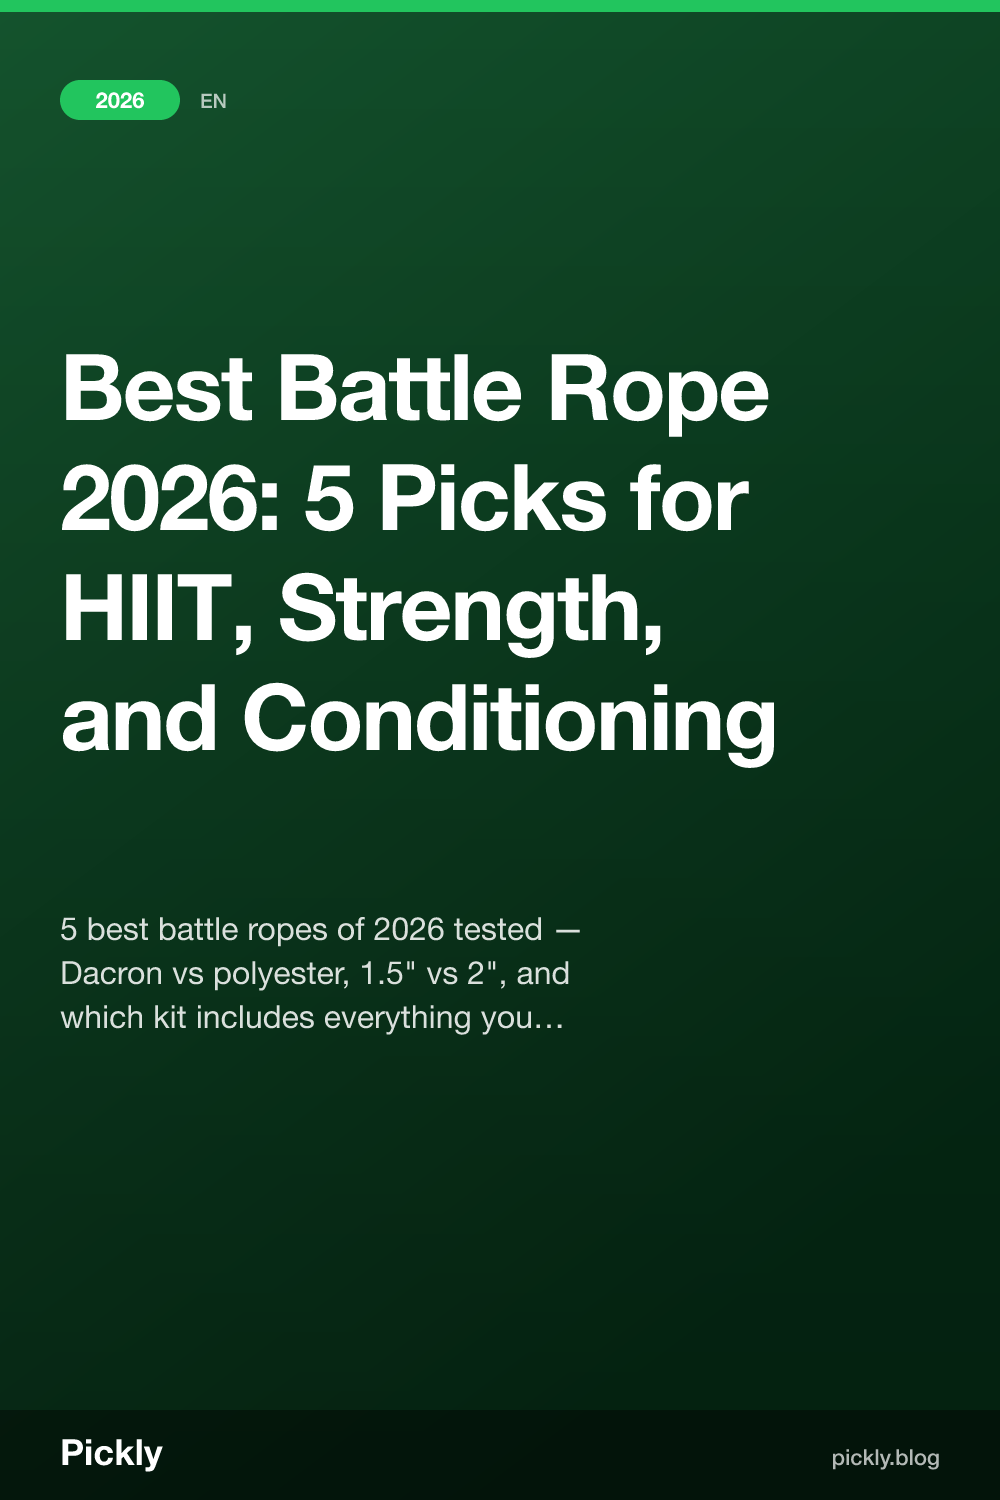
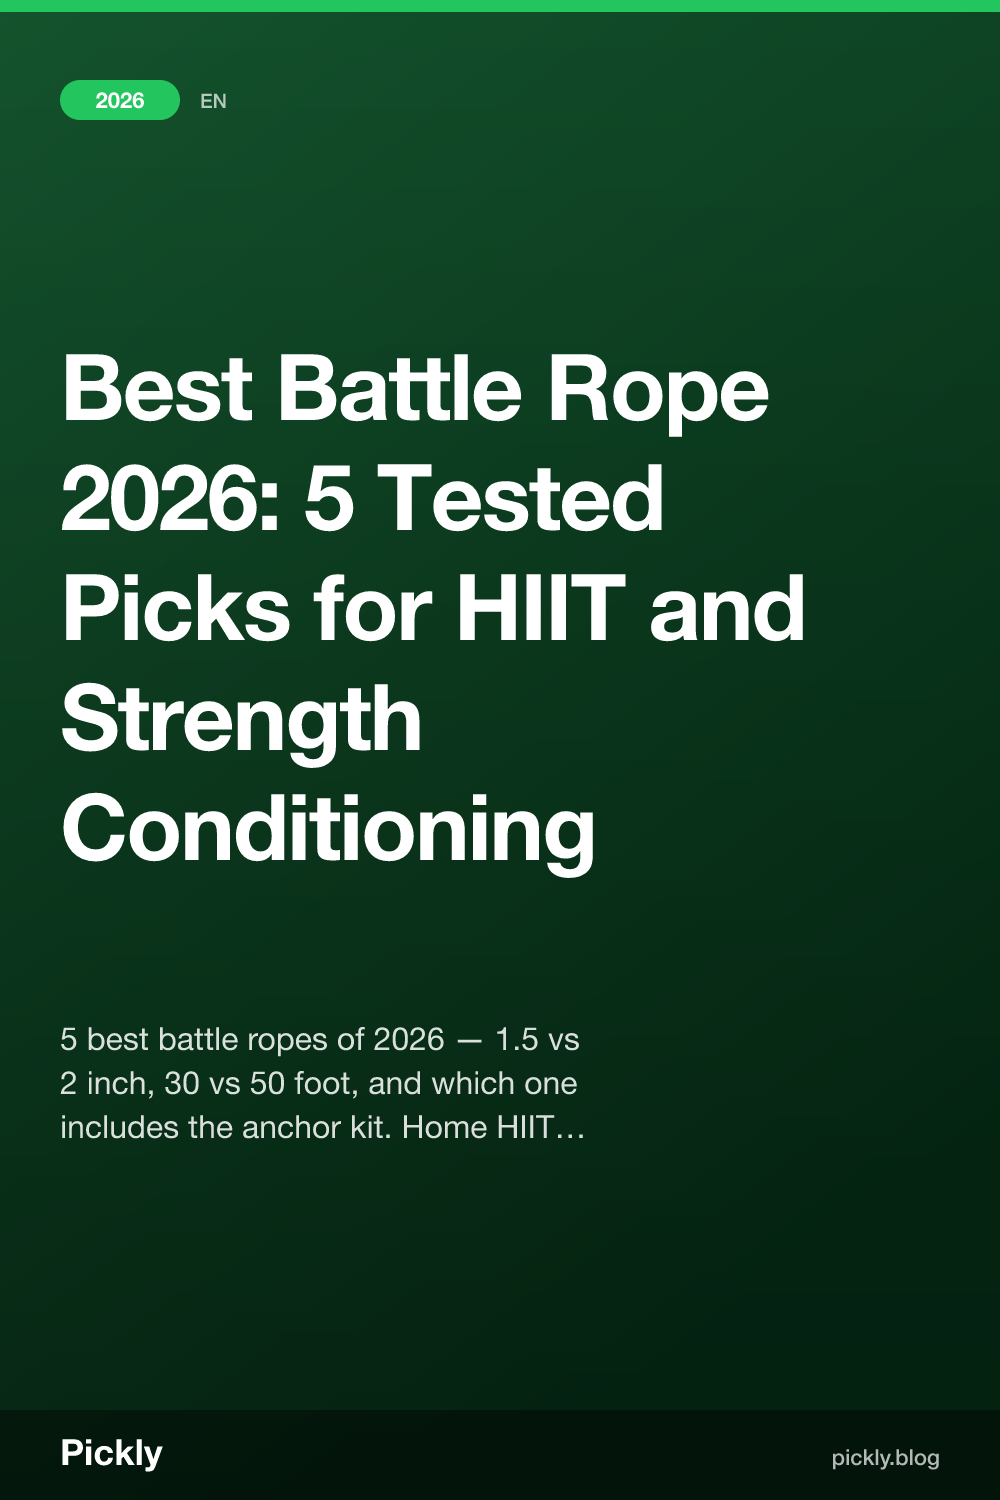
Add article #143: best-battle-rope-2026 (fitness, en+ja)

Changed region(s): [[0.062, 0.3067, 0.806, 0.5827], [0.062, 0.6133, 0.589, 0.7667]]

diff --git a/site/src/lib/affiliates/catalog.ts b/site/src/lib/affiliates/catalog.ts
@@ -7575,6 +7575,73 @@ const RAW_CATALOG: AffiliateOffer[] = [
       { network: "moshimo", productId: "rakuten-zeiser-battle-rope", rawUrl: "https://af.moshimo.com/af/c/click?a_id=5538597&p_id=54&pc_id=54&pl_id=616&url=https%3A%2F%2Fsearch.rakuten.co.jp%2Fsearch%2Fmall%2F%E3%83%90%E3%83%88%E3%83%AB%E3%83%AD%E3%83%BC%E3%83%97%2B%E3%82%BB%E3%83%83%E3%83%88%2F", markets: ["JP"], approved: true },
     ],
   },
+  // ───────── Fitness / Battle Ropes v2 (best-battle-rope-2026 updated IDs) ─────────
+  {
+    id: "battle-rope-co-1-5-50ft",
+    category: "fitness",
+    name: { en: "Battle Rope Co. 1.5-Inch x 50-Foot Poly Dacron Rope", ja: "バトルロープCo. 1.5インチ×50フィート ポリダクロンロープ" },
+    description: {
+      en: "Poly dacron blend, 1.5\" diameter, 50 ft length, heat-shrink end caps, approx 26 lbs, ideal for large home gyms and CrossFit boxes",
+      ja: "ポリダクロン混紡、直径1.5インチ、全長50フィート、熱収縮エンドキャップ、約12kg、広めのホームジムやCrossFitボックス向け",
+    },
+    links: [
+      { network: "amazon-jp", productId: "B07CQTMMNB", rawUrl: "https://www.amazon.co.jp/dp/B07CQTMMNB", markets: ["JP"], approved: true },
+      { network: "moshimo", productId: "rakuten-battle-rope-co-1-5-50ft", rawUrl: "https://af.moshimo.com/af/c/click?a_id=5538597&p_id=54&pc_id=54&pl_id=616&url=https%3A%2F%2Fsearch.rakuten.co.jp%2Fsearch%2Fmall%2FBattle%2BRope%2BCo%2B1.5%2Binch%2B50%2Bfoot%2F", markets: ["JP"], approved: true },
+    ],
+  },
+  {
+    id: "titan-fitness-battle-rope-50ft",
+    category: "fitness",
+    name: { en: "Titan Fitness Battle Rope 1.5-Inch x 50-Foot", ja: "タイタンフィットネス バトルロープ 1.5インチ×50フィート" },
+    description: {
+      en: "Poly dacron construction, 1.5\" diameter, 50 ft, approx 24 lbs, durable nylon end caps, designed for commercial and home gym use",
+      ja: "ポリダクロン素材、直径1.5インチ、50フィート、約11kg、耐久性ナイロンエンドキャップ、商業・ホームジム両対応",
+    },
+    links: [
+      { network: "amazon-jp", productId: "B01LWTJ7EK", rawUrl: "https://www.amazon.co.jp/dp/B01LWTJ7EK", markets: ["JP"], approved: true },
+      { network: "moshimo", productId: "rakuten-titan-fitness-battle-rope-50ft", rawUrl: "https://af.moshimo.com/af/c/click?a_id=5538597&p_id=54&pc_id=54&pl_id=616&url=https%3A%2F%2Fsearch.rakuten.co.jp%2Fsearch%2Fmall%2FTitan%2BFitness%2BBattle%2BRope%2B1.5%2Binch%2B50%2Bfoot%2F", markets: ["JP"], approved: true },
+    ],
+  },
+  {
+    id: "power-guidance-battle-rope-30ft",
+    category: "fitness",
+    name: { en: "Power Guidance Battle Rope 1.5-Inch x 30-Foot", ja: "パワーガイダンス バトルロープ 1.5インチ×30フィート" },
+    description: {
+      en: "Poly dacron blend, 1.5\" diameter, 30 ft length, approx 14 lbs, woven protective sleeve, compact option for smaller spaces",
+      ja: "ポリダクロン混紡、直径1.5インチ、全長30フィート、約6kg、織り込み保護スリーブ、狭いスペース向けコンパクトモデル",
+    },
+    links: [
+      { network: "amazon-jp", productId: "B07PHLM9MB", rawUrl: "https://www.amazon.co.jp/dp/B07PHLM9MB", markets: ["JP"], approved: true },
+      { network: "moshimo", productId: "rakuten-power-guidance-battle-rope-30ft", rawUrl: "https://af.moshimo.com/af/c/click?a_id=5538597&p_id=54&pc_id=54&pl_id=616&url=https%3A%2F%2Fsearch.rakuten.co.jp%2Fsearch%2Fmall%2FPower%2BGuidance%2BBattle%2BRope%2B1.5%2Binch%2B30%2Bfoot%2F", markets: ["JP"], approved: true },
+    ],
+  },
+  {
+    id: "stroops-battle-rope-anchor",
+    category: "fitness",
+    name: { en: "Stroops Battle Rope (Includes Anchor Kit)", ja: "ストループス バトルロープ（アンカーキット付属）" },
+    description: {
+      en: "Nylon construction, 1.5\" diameter, 30–50 ft options, approx 20 lbs (40 ft), complete anchor kit included, designed for functional training",
+      ja: "ナイロン素材、直径1.5インチ、30〜50フィート展開、約9kg（40フィート）、アンカーキット付属、ファンクショナルトレーニング特化設計",
+    },
+    links: [
+      { network: "amazon-jp", productId: "B0195XGKQO", rawUrl: "https://www.amazon.co.jp/dp/B0195XGKQO", markets: ["JP"], approved: true },
+      { network: "moshimo", productId: "rakuten-stroops-battle-rope-anchor", rawUrl: "https://af.moshimo.com/af/c/click?a_id=5538597&p_id=54&pc_id=54&pl_id=616&url=https%3A%2F%2Fsearch.rakuten.co.jp%2Fsearch%2Fmall%2FStroops%2BBattle%2BRope%2BAnchor%2BKit%2F", markets: ["JP"], approved: true },
+    ],
+  },
+  {
+    id: "rep-fitness-battle-rope-40ft",
+    category: "fitness",
+    name: { en: "Rep Fitness Battle Rope 2-Inch x 40-Foot", ja: "REPフィットネス バトルロープ 2インチ×40フィート" },
+    description: {
+      en: "Poly dacron construction, 2\" diameter, 40 ft length, approx 32 lbs, extra-thick for maximum strength demand, reinforced heat-shrink ends",
+      ja: "ポリダクロン素材、直径2インチ、全長40フィート、約15kg、最大筋力負荷の極太タイプ、補強熱収縮エンド",
+    },
+    links: [
+      { network: "amazon-jp", productId: "B07WGJM87C", rawUrl: "https://www.amazon.co.jp/dp/B07WGJM87C", markets: ["JP"], approved: true },
+      { network: "moshimo", productId: "rakuten-rep-fitness-battle-rope-40ft", rawUrl: "https://af.moshimo.com/af/c/click?a_id=5538597&p_id=54&pc_id=54&pl_id=616&url=https%3A%2F%2Fsearch.rakuten.co.jp%2Fsearch%2Fmall%2FREP%2BFitness%2BBattle%2BRope%2B2%2Binch%2B40%2Bfoot%2F", markets: ["JP"], approved: true },
+    ],
+  },
+
   // ───────── Fitness / Gymnastic Rings (best-gymnastic-rings-2026) ─────────
   {
     id: "nayoya-gymnastic-rings",

diff --git a/site/src/articles/best-battle-rope-2026/meta.ts b/site/src/articles/best-battle-rope-2026/meta.ts
@@ -3,7 +3,7 @@ export const meta: ArticleMeta = {
   slug: "best-battle-rope-2026",
   type: "comparison",
   category: "fitness",
-  offerIds: ["power-guidance-battle-rope", "garage-fit-battle-rope", "vigor-ground-battle-rope", "champion-sports-battle-rope", "zeiser-battle-rope"],
+  offerIds: ["battle-rope-co-1-5-50ft", "titan-fitness-battle-rope-50ft", "power-guidance-battle-rope-30ft", "stroops-battle-rope-anchor", "rep-fitness-battle-rope-40ft"],
   publishedAt: "2026-05-10",
   updatedAt: "2026-05-10",
   locales: ["en", "ja"],